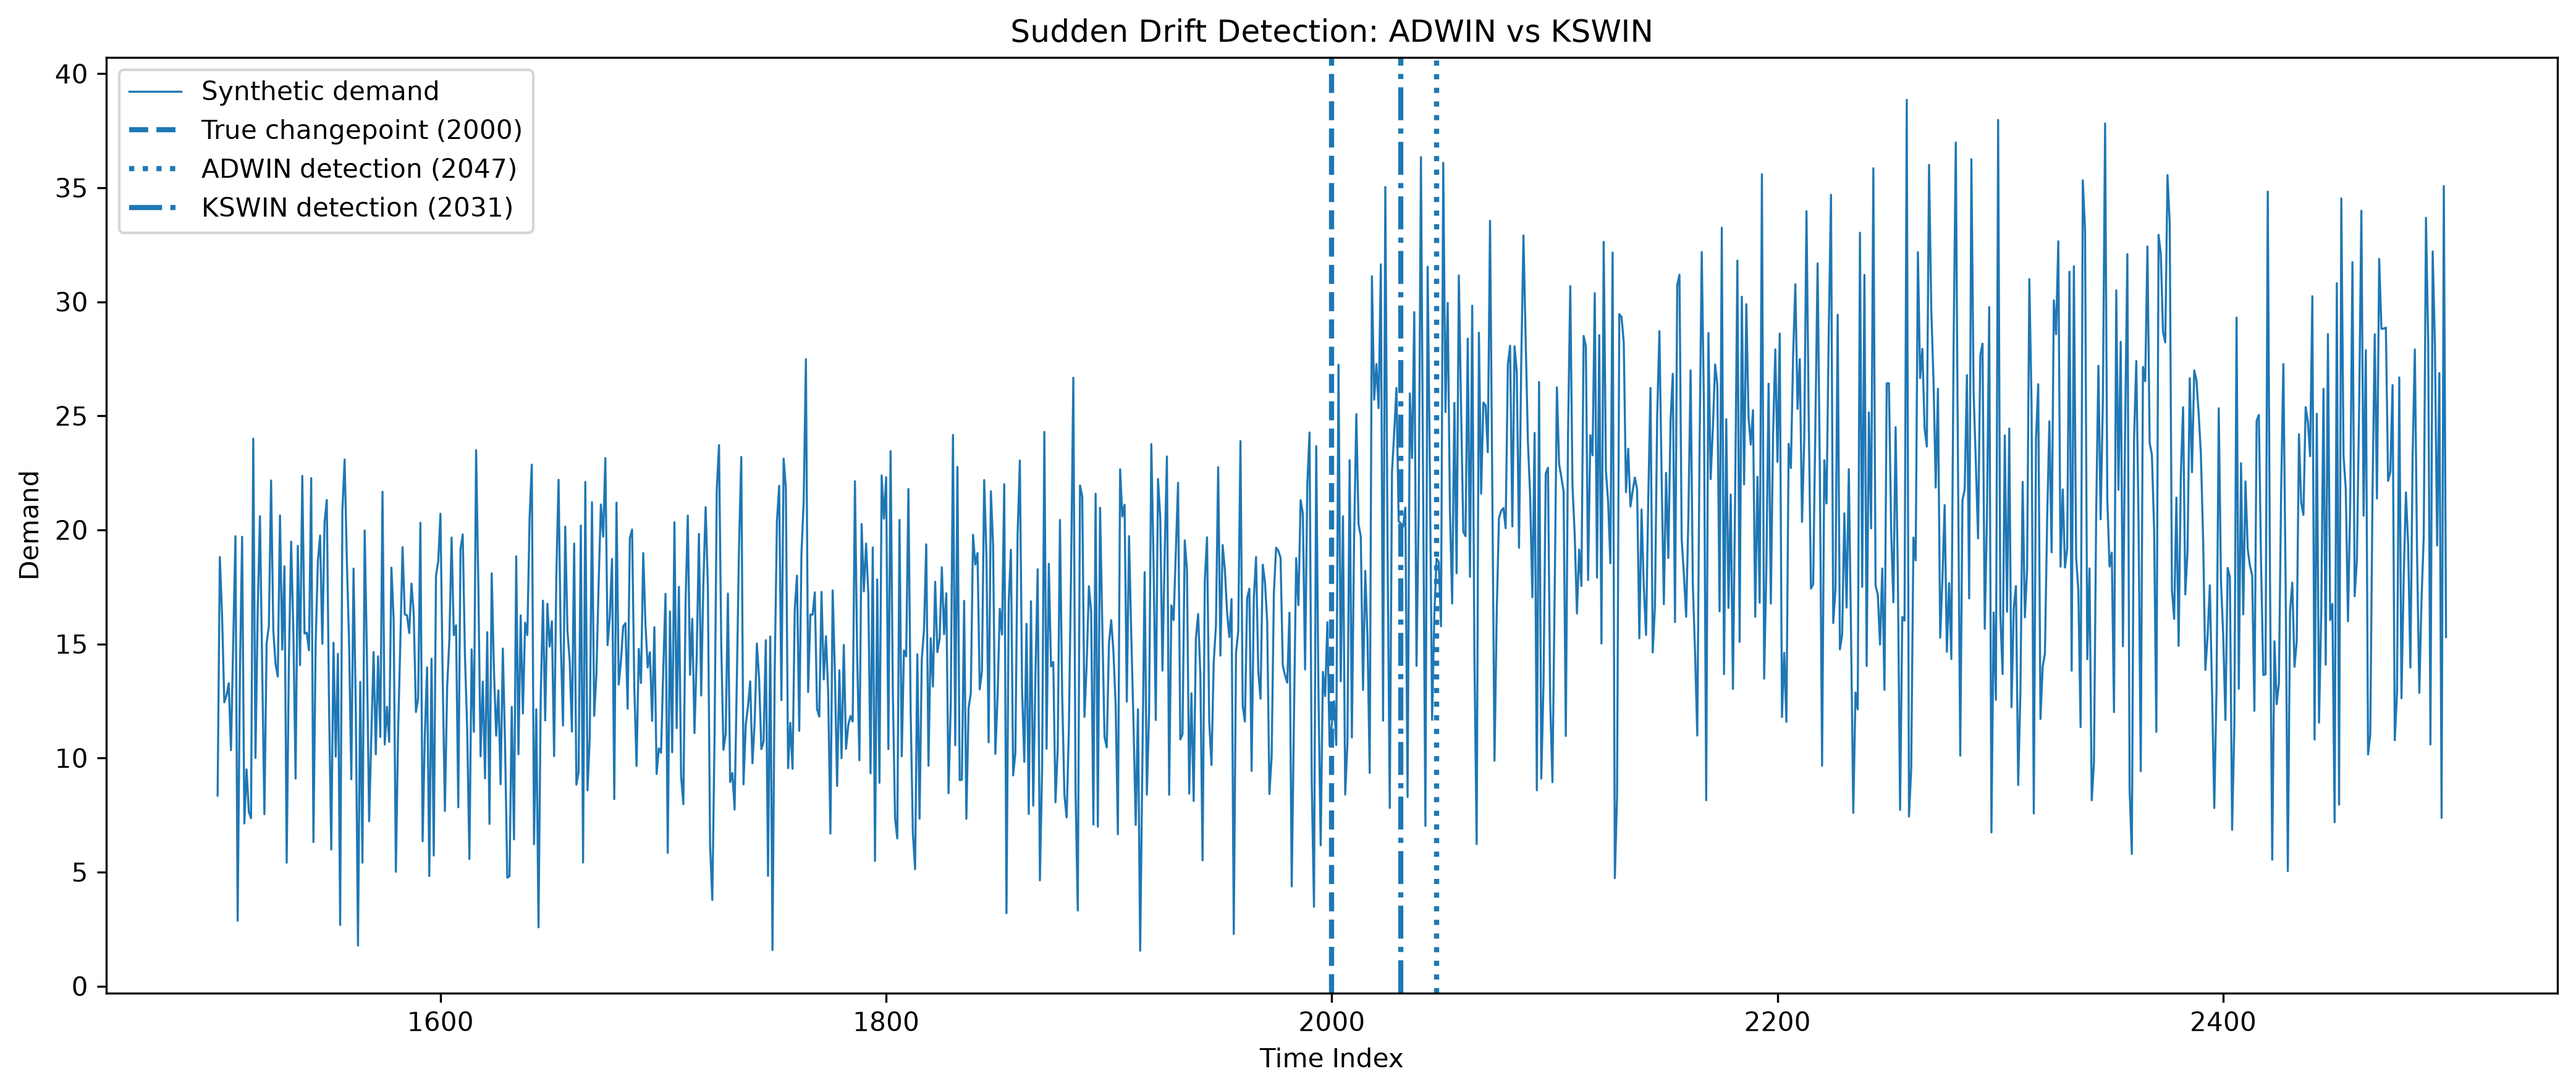
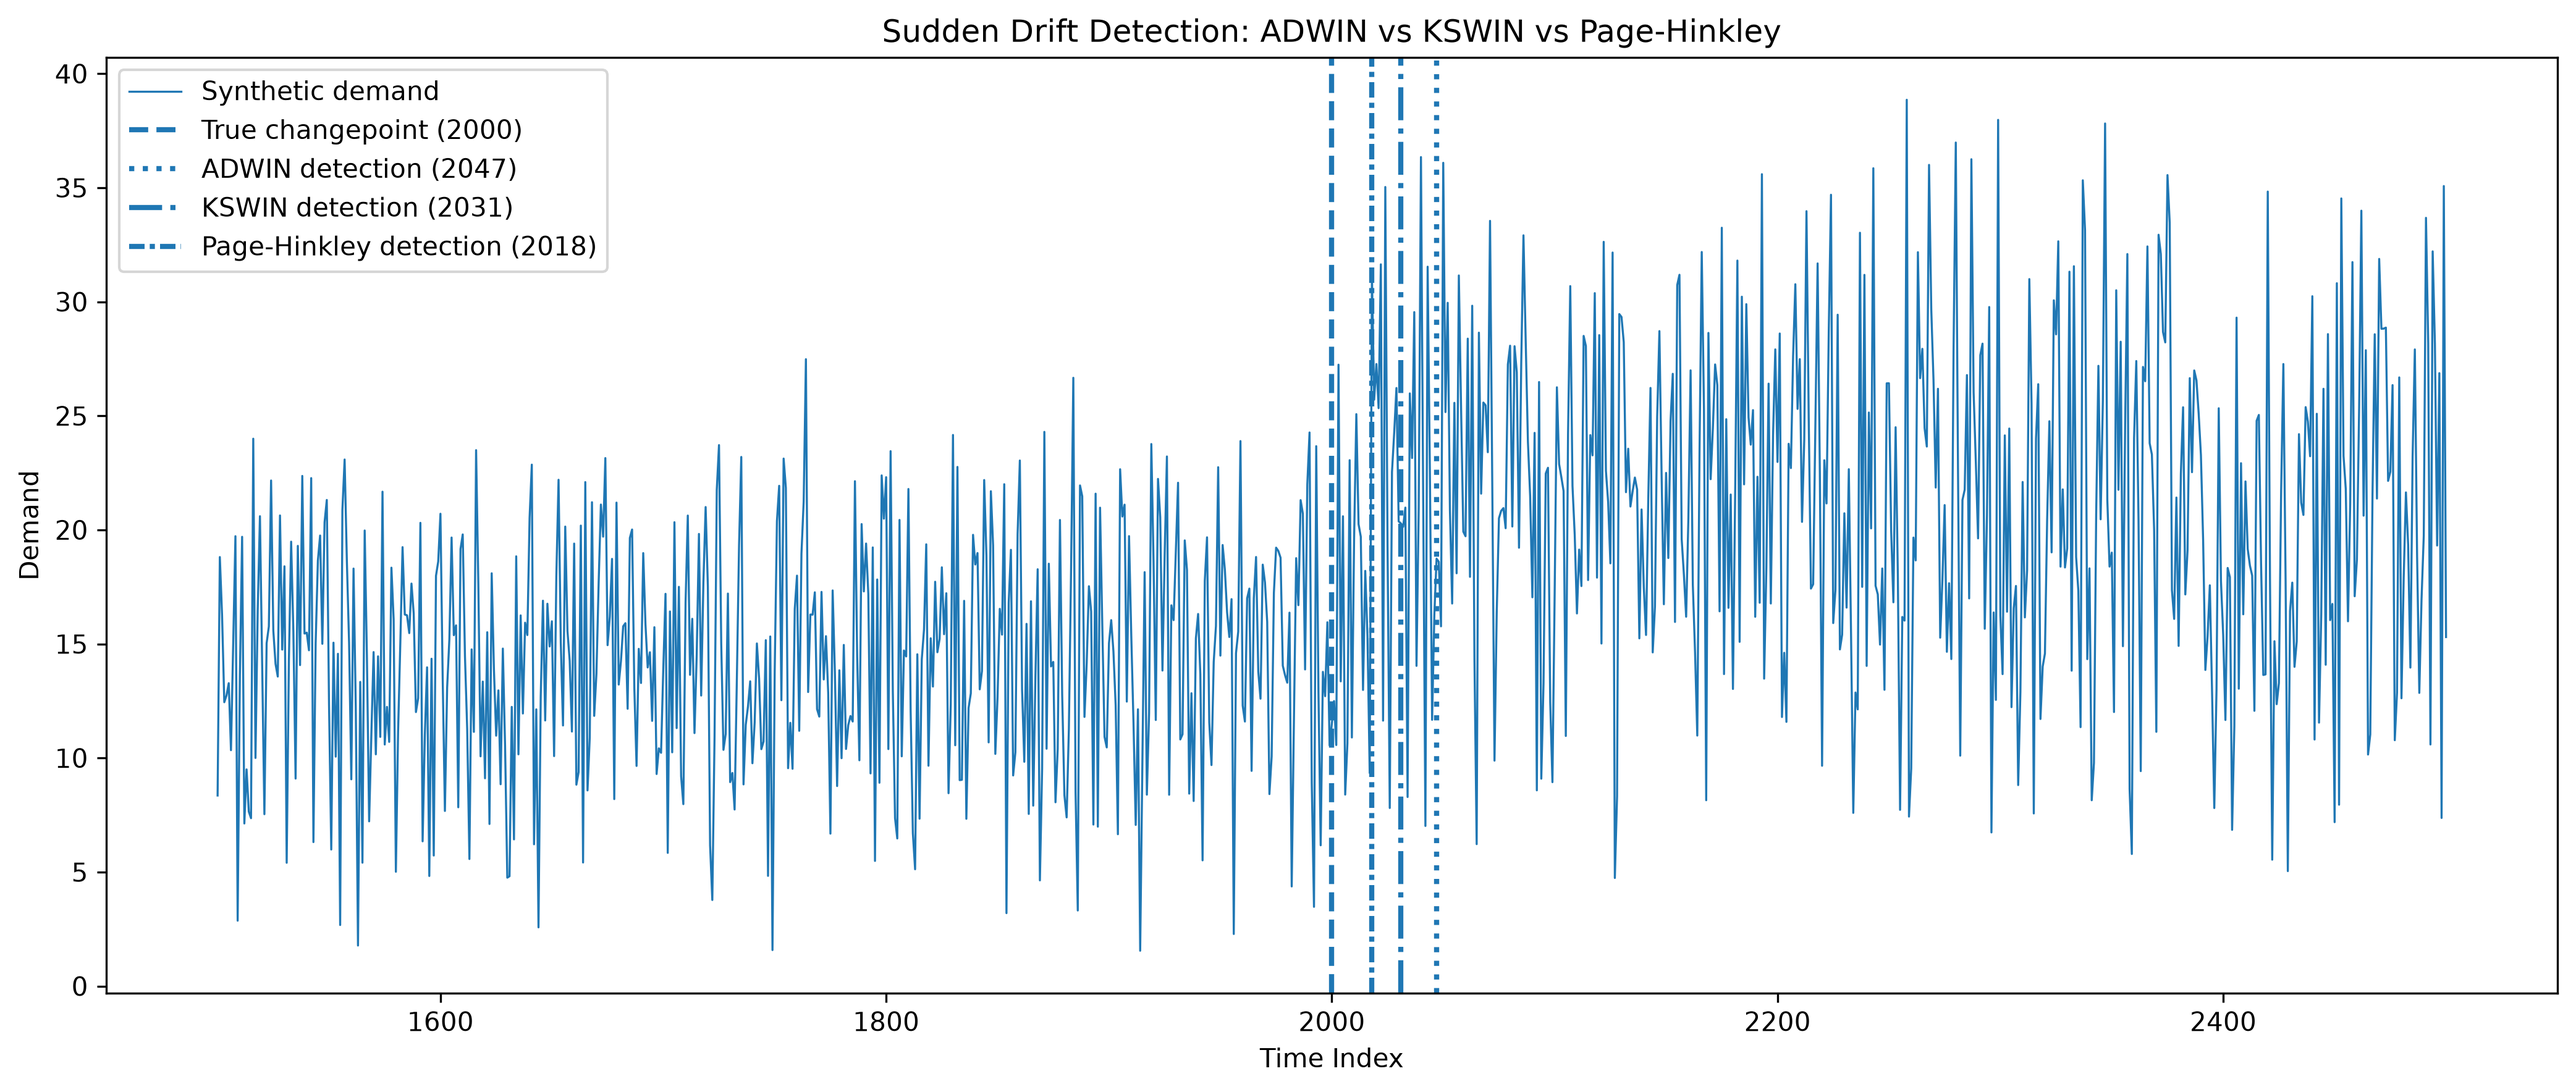
feat: add Page-Hinkley to sudden drift comparison

Changed region(s): [[0.343, 0.0, 0.686, 0.0622], [0.0624, 0.2178, 0.2495, 0.2489]]

diff --git a/notebooks/exploration/sudden_drift_comparison.py b/notebooks/exploration/sudden_drift_comparison.py
@@ -2,6 +2,7 @@ from pathlib import Path
 import pandas as pd
 from drift_forecasting.detection.adwin import ADWINDetector
 from drift_forecasting.detection.kswin import KSWINDetector
+from drift_forecasting.detection.page_hinkley import PageHinkleyDetector
 
 # Locate the project root from this script
 PROJECT_ROOT = Path(__file__).resolve().parents[2]
@@ -134,6 +135,57 @@ print("Detection delay:", adwin_delay)
 
 
 # ============================================================
+# Page-Hinkley sudden drift detection
+# ============================================================
+
+page_hinkley_detector = PageHinkleyDetector()
+
+page_hinkley_changepoints = page_hinkley_detector.detect(
+    df["demand"].to_numpy()
+)
+
+page_hinkley_false_alarms = [
+    cp for cp in page_hinkley_changepoints
+    if cp < TRUE_CHANGEPOINT
+]
+
+page_hinkley_after_drift = [
+    cp for cp in page_hinkley_changepoints
+    if cp >= TRUE_CHANGEPOINT
+]
+
+if len(page_hinkley_after_drift) > 0:
+    page_hinkley_detection = page_hinkley_after_drift[0]
+    page_hinkley_delay = (
+        page_hinkley_detection - TRUE_CHANGEPOINT
+    )
+else:
+    page_hinkley_detection = None
+    page_hinkley_delay = None
+
+print()
+print("========== PAGE-HINKLEY RESULT ==========")
+print("True changepoint:", TRUE_CHANGEPOINT)
+print("Detected changepoints:", page_hinkley_changepoints)
+print(
+    "False alarms before drift:",
+    page_hinkley_false_alarms
+)
+print(
+    "Number of false alarms:",
+    len(page_hinkley_false_alarms)
+)
+print(
+    "Matched detection:",
+    page_hinkley_detection
+)
+print(
+    "Detection delay:",
+    page_hinkley_delay
+)
+
+
+# ============================================================
 # KSWIN sudden drift detection
 # ============================================================
 
@@ -219,10 +271,19 @@ plt.axvline(
     linewidth=2,
     label="KSWIN detection (2031)"
 )
+# page_hinkley_detection
+plt.axvline(
+    page_hinkley_detection,
+    linestyle=(0, (3, 1, 1, 1)),
+    linewidth=2,
+    label=f"Page-Hinkley detection ({page_hinkley_detection})"
+)
 
 plt.xlabel("Time Index")
 plt.ylabel("Demand")
-plt.title("Sudden Drift Detection: ADWIN vs KSWIN")
+plt.title(
+    "Sudden Drift Detection: ADWIN vs KSWIN vs Page-Hinkley"
+)
 
 plt.legend()
 plt.tight_layout()
@@ -250,37 +311,51 @@ kswin_false_alarm_rate = (
     len(kswin_false_alarms) / TRUE_CHANGEPOINT
 ) * 10000
 
+page_hinkley_false_alarm_rate = (
+    len(page_hinkley_false_alarms) / TRUE_CHANGEPOINT
+) * 10000
+
 comparison = pd.DataFrame({
-    "Detector": ["ADWIN", "KSWIN"],
+    "Detector": [
+        "ADWIN",
+        "KSWIN",
+        "Page-Hinkley"
+    ],
 
     "True Changepoint": [
+        TRUE_CHANGEPOINT,
         TRUE_CHANGEPOINT,
         TRUE_CHANGEPOINT
     ],
 
     "Detected Changepoint": [
         adwin_detection,
-        kswin_detection
+        kswin_detection,
+        page_hinkley_detection
     ],
 
     "Detection Delay": [
         adwin_delay,
-        kswin_delay
+        kswin_delay,
+        page_hinkley_delay
     ],
 
     "Pre-drift False Alarms": [
         len(adwin_false_alarms),
-        len(kswin_false_alarms)
+        len(kswin_false_alarms),
+        len(page_hinkley_false_alarms)
     ],
 
     "False Alarms per 10k": [
         adwin_false_alarm_rate,
-        kswin_false_alarm_rate
+        kswin_false_alarm_rate,
+        page_hinkley_false_alarm_rate
     ],
 
     "Missed": [
         "No" if adwin_detection is not None else "Yes",
-        "No" if kswin_detection is not None else "Yes"
+        "No" if kswin_detection is not None else "Yes",
+        "No" if page_hinkley_detection is not None else "Yes"
     ]
 })
 
